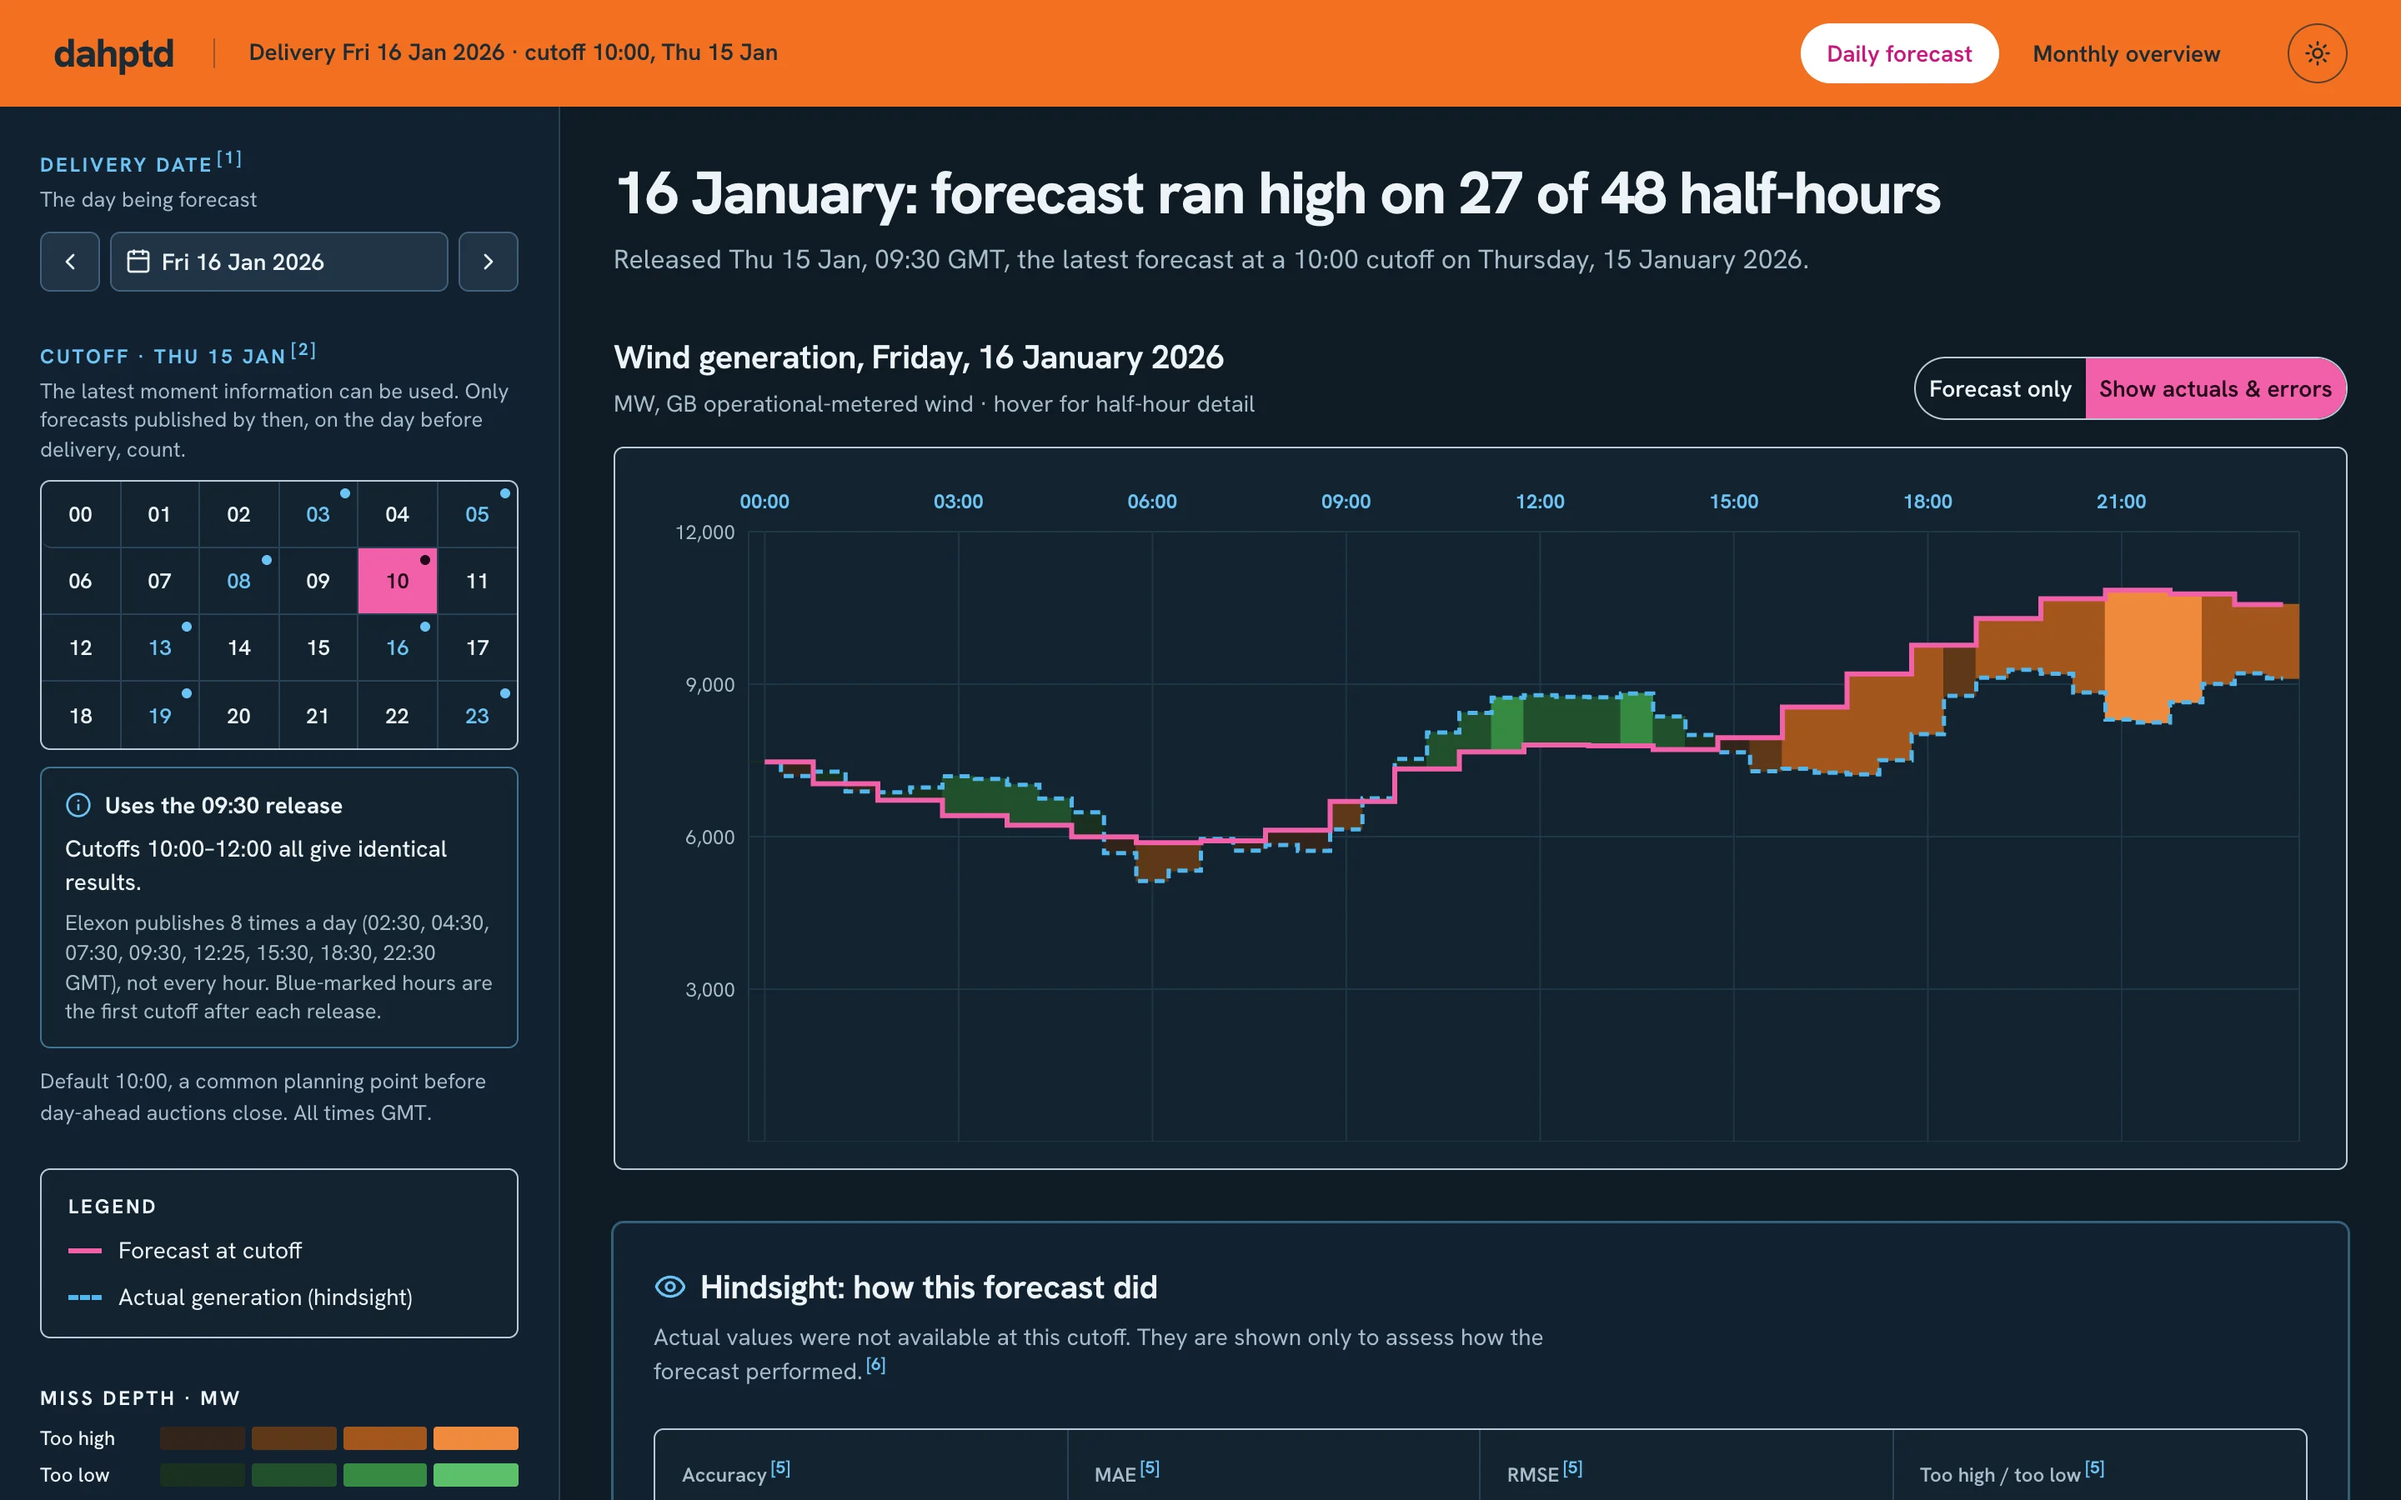
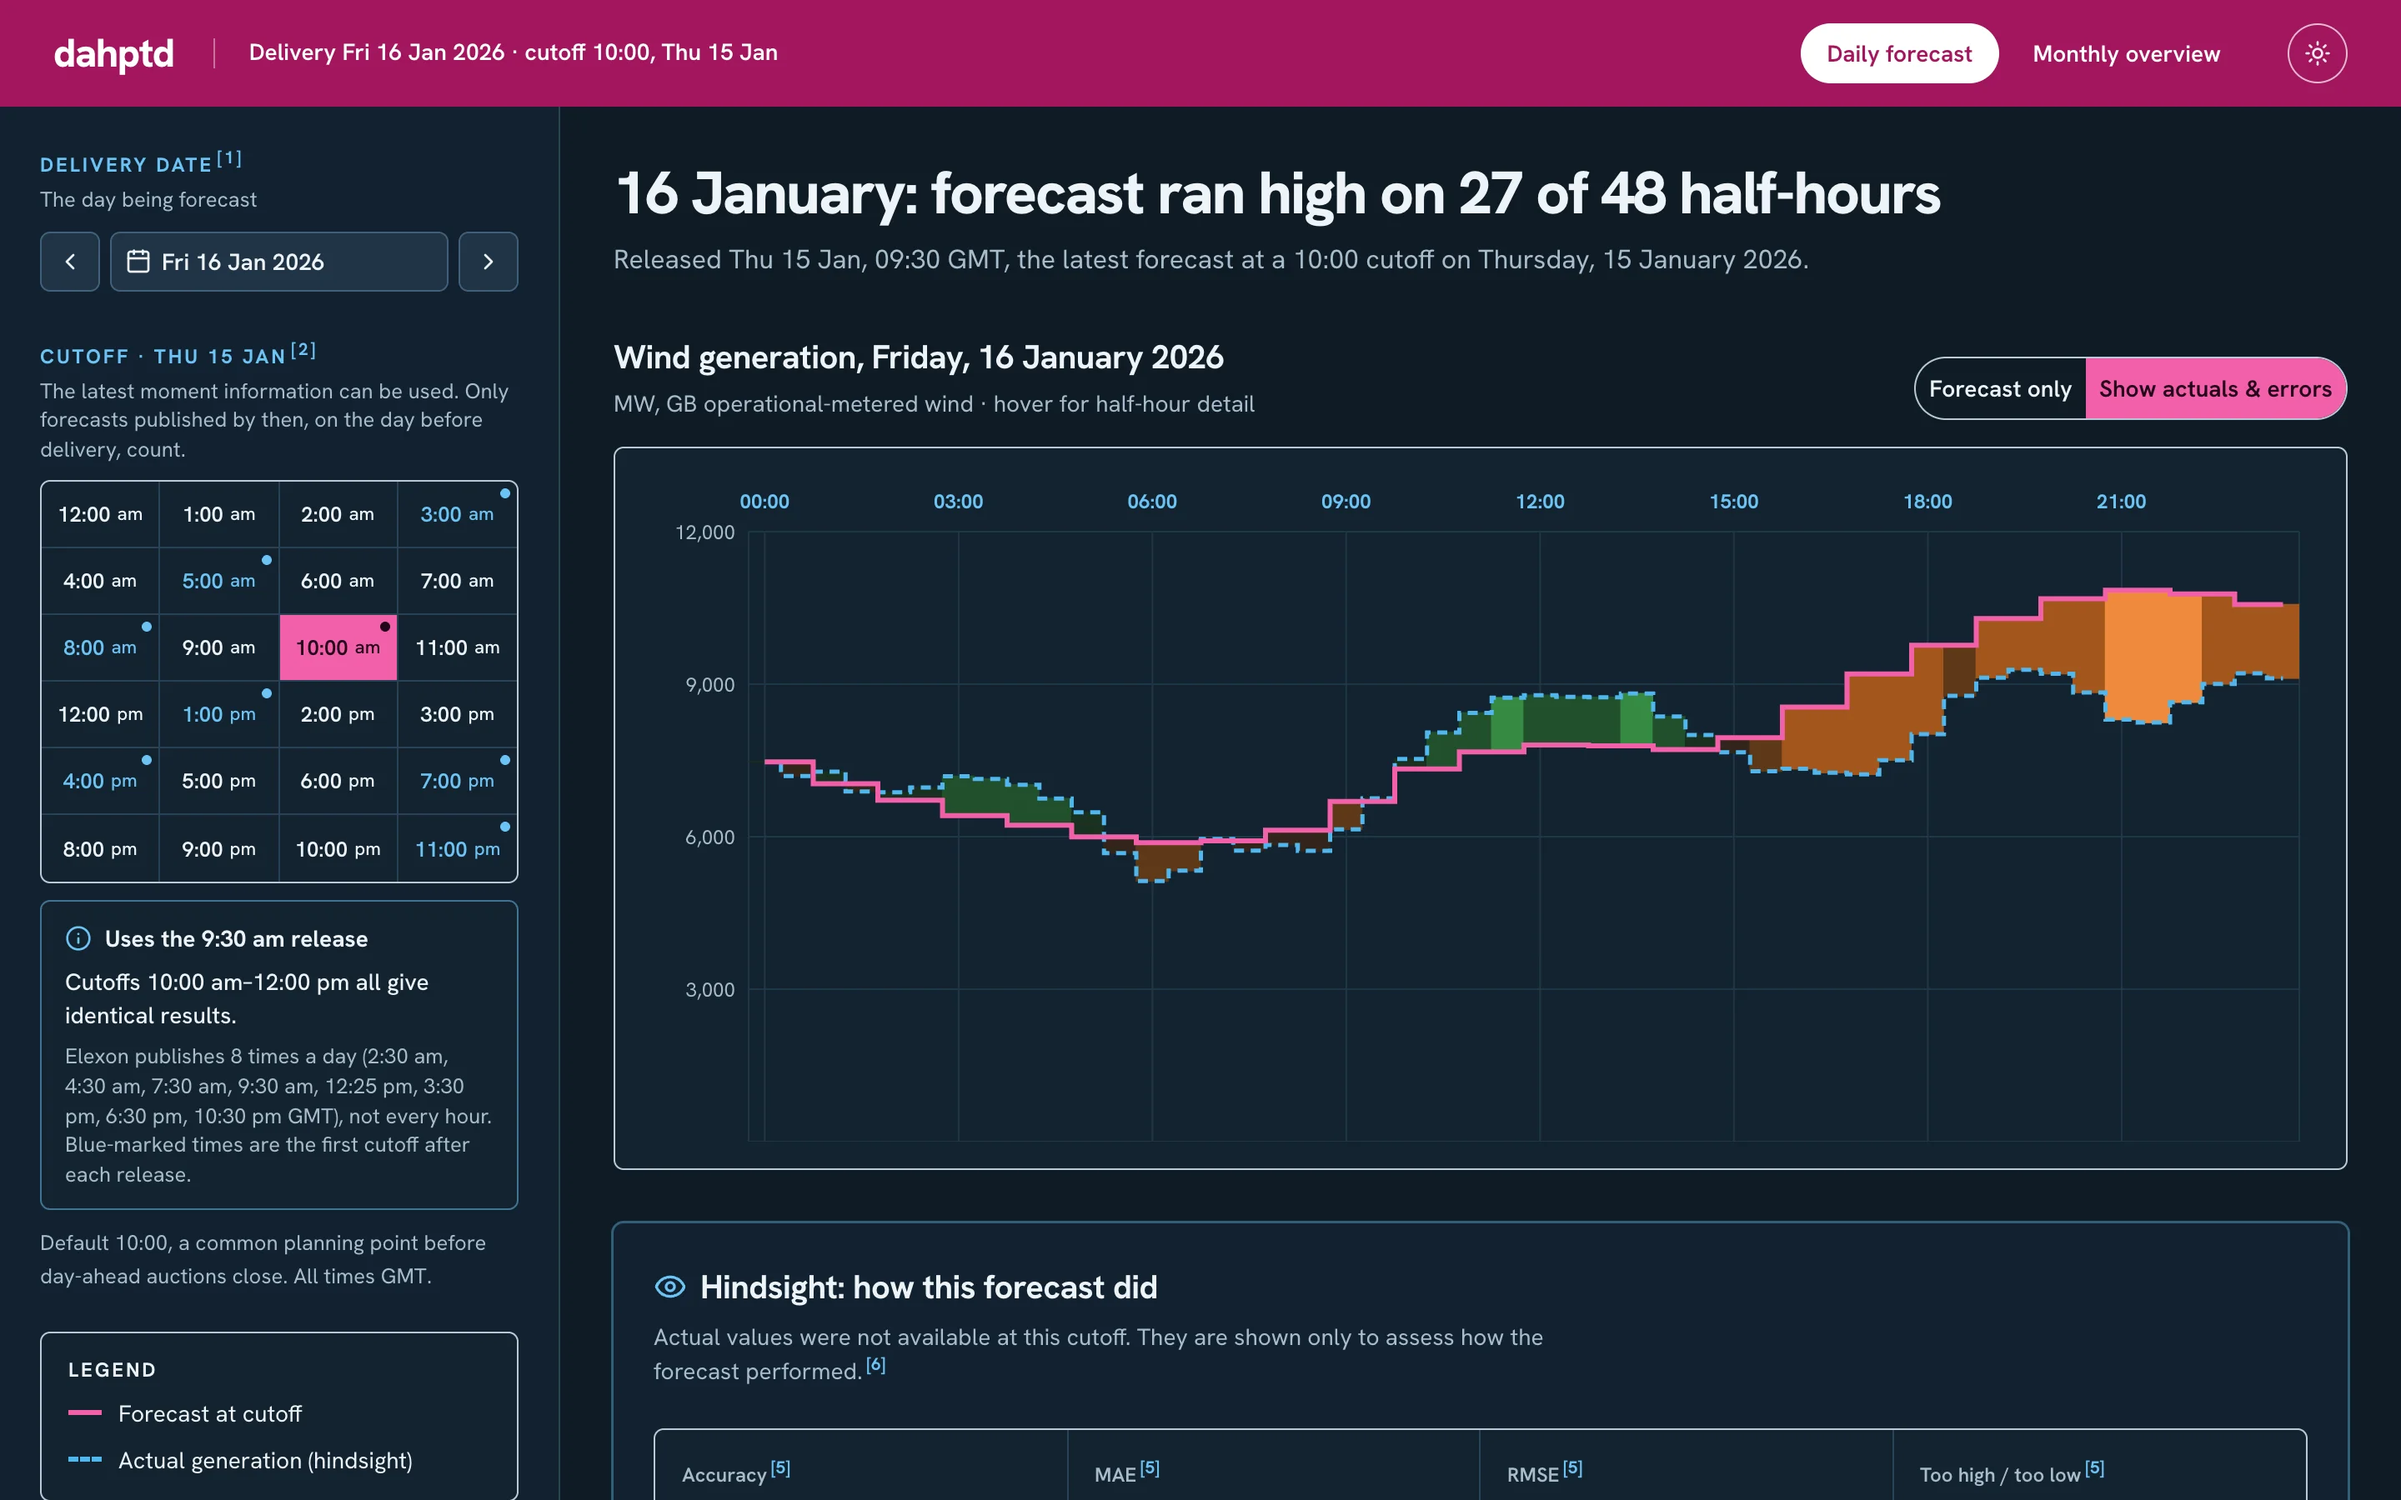
fix(frontend): use orange selections in light mode
Selection paints (cutoff grid, actuals toggle, calendar, focus rings,
text highlights) took their colour from --primary, which was magenta.
Light mode now takes the sheet's orange; dark mode keeps magenta, so
the theme still reads as the same sheet at night. The forecast line and
chart series stay magenta so their meaning does not change.

The presentation screenshots were taken before the 12-hour cutoff grid
and predate this change, so all nine are refreshed and the two callouts
that name a bar were moved to match.

Changed region(s): [[0.0, 0.0, 1.0, 0.0933], [0.0, 0.3111, 0.2188, 0.8711], [0.0, 0.9022, 0.2188, 0.9956]]

diff --git a/presentation/index.html b/presentation/index.html
@@ -18,7 +18,7 @@
   }
   * { box-sizing: border-box; margin: 0; }
   html, body { height: 100%; background: #10171d; color: var(--ink); font-family: var(--sans); overflow: hidden; font-variant-numeric: tabular-nums; }
-  ::selection { background: var(--magenta); color: #fff; }
+  ::selection { background: var(--band); color: var(--ink); }
 
   #stage { position: absolute; left: 50%; top: 50%; width: 1600px; height: 900px; transform-origin: center; }
   .slide { position: absolute; inset: 0; background: var(--paper); display: flex; flex-direction: column; overflow: hidden;
@@ -197,19 +197,19 @@
 <section class="slide sheet" data-part="Part 1 · Pilot walkthrough">
   <div class="top"><h2 class="rise"><span class="qn">1</span>Which forecast did your desk actually have?</h2><span class="part">2 · Daily view</span></div>
   <div class="work rise d1">
-    <div class="shot" data-cams='{"0":[720,450,1],"1":[230,400,1.75],"4":[720,450,1]}'>
+    <div class="shot" data-cams='{"0":[720,450,1],"1":[230,450,1.4],"4":[720,450,1]}'>
       <div class="cam" style="height:900px">
         <img src="shots/daily-forecast.webp" style="top:0" alt="Daily page with forecast only">
         <svg class="ov" width="1440" height="900" viewBox="0 0 1440 900">
-          <rect class="ring" data-step="1" pathLength="1" x="18" y="282" width="299" height="174" rx="8"/>
-          <rect class="ring blue" data-step="2" pathLength="1" x="113" y="326" width="56" height="46" rx="6"/>
-          <rect class="ring blue" data-step="2" pathLength="1" x="161" y="286" width="56" height="44" rx="6"/>
-          <rect class="ring" data-step="3" pathLength="1" x="18" y="454" width="299" height="180" rx="8"/>
+          <rect class="ring" data-step="1" pathLength="1" x="18" y="282" width="299" height="253" rx="8"/>
+          <rect class="ring blue" data-step="2" pathLength="1" x="20" y="367" width="78" height="44" rx="6"/>
+          <rect class="ring blue" data-step="2" pathLength="1" x="164" y="367" width="78" height="44" rx="6"/>
+          <rect class="ring" data-step="3" pathLength="1" x="18" y="536" width="299" height="196" rx="8"/>
           <rect class="ring" data-step="4" pathLength="1" x="122" y="17" width="350" height="30" rx="8"/>
           <path class="arrow" data-step="4" pathLength="1" d="M1000 278 C 1040 330, 1090 370, 1140 392"/>
           <g class="pin" data-step="1"><circle cx="340" cy="300" r="24"/><text x="340" y="301">1</text></g>
-          <g class="pin" data-step="2"><circle cx="200" cy="395" r="24"/><text x="200" y="396">2</text></g>
-          <g class="pin" data-step="3"><circle cx="340" cy="475" r="24"/><text x="340" y="476">3</text></g>
+          <g class="pin" data-step="2"><circle cx="340" cy="390" r="24"/><text x="340" y="391">2</text></g>
+          <g class="pin" data-step="3"><circle cx="340" cy="557" r="24"/><text x="340" y="558">3</text></g>
           <g class="pin" data-step="4"><circle cx="990" cy="252" r="24"/><text x="990" y="253">4</text></g>
         </svg>
       </div>
@@ -220,7 +220,7 @@
       <ol class="steps">
         <li data-step="1"><span>1</span><div><b>Pick your cutoff</b>Any hour on the day before delivery. The grid is your decision clock.</div></li>
         <li data-step="2"><span>2</span><div><b>See the release rhythm</b>Blue dots mark the first hour after each new Elexon release.</div></li>
-        <li data-step="3"><span>3</span><div><b>The exact run, named</b>"Uses the 09:30 release." Never a later one, never a blend.</div></li>
+        <li data-step="3"><span>3</span><div><b>The exact run, named</b>"Uses the 9:30 am release." Never a later one, never a blend.</div></li>
         <li data-step="4"><span>4</span><div><b>Read the forecast</b>Magenta is the forecast your desk had, hour by hour.</div></li>
       </ol>
     </div>
@@ -551,7 +551,7 @@
       <div class="lane"><b>Frontend</b><span class="ck"><svg width="22" height="22" viewBox="0 0 24 24" aria-hidden="true"><circle cx="12" cy="12" r="11" fill="#3f9a49"/><path d="M7 12.5l3.2 3.2L17 9" fill="none" stroke="#fff" stroke-width="2.6" stroke-linecap="round" stroke-linejoin="round"/></svg>eslint</span><span class="ck"><svg width="22" height="22" viewBox="0 0 24 24" aria-hidden="true"><circle cx="12" cy="12" r="11" fill="#3f9a49"/><path d="M7 12.5l3.2 3.2L17 9" fill="none" stroke="#fff" stroke-width="2.6" stroke-linecap="round" stroke-linejoin="round"/></svg>bun test · 15</span><span class="ck"><svg width="22" height="22" viewBox="0 0 24 24" aria-hidden="true"><circle cx="12" cy="12" r="11" fill="#3f9a49"/><path d="M7 12.5l3.2 3.2L17 9" fill="none" stroke="#fff" stroke-width="2.6" stroke-linecap="round" stroke-linejoin="round"/></svg>typecheck</span><span class="ck"><svg width="22" height="22" viewBox="0 0 24 24" aria-hidden="true"><circle cx="12" cy="12" r="11" fill="#3f9a49"/><path d="M7 12.5l3.2 3.2L17 9" fill="none" stroke="#fff" stroke-width="2.6" stroke-linecap="round" stroke-linejoin="round"/></svg>next build</span></div>
       <p style="margin-top:8px">Pinned <b>Bun 1.4.3</b> and <b>uv 0.13.4</b> with frozen lockfiles; Docker for both services; checksummed data. Data loads once per instance and views are memoised, so a 10 s function limit is plenty.</p>
     </div>
-    <figure style="display:grid; gap:10px"><div class="shot" style="aspect-ratio:16/10"><img src="shots/daily-dark.webp" alt="Daily page in dark mode" style="width:100%; height:100%; object-fit:cover; display:block"></div><figcaption style="font-size:18px; color:var(--muted)">Light and dark from one token set; the switch remembers your choice.</figcaption></figure>
+    <figure style="display:grid; gap:10px"><div class="shot" style="aspect-ratio:16/10"><img src="shots/daily-dark.webp" alt="Updated daily page in dark mode, with magenta header and selected cutoff" style="width:100%; height:100%; object-fit:cover; display:block"></div><figcaption style="font-size:18px; color:var(--muted)">Orange controls in light mode, magenta in dark; the switch remembers your choice.</figcaption></figure>
   </div>
   <div class="reveal" data-step="1" style="margin-top:34px; border-top:2px solid var(--ink); padding-top:22px">
     <p><b>Known trade-offs → next steps:</b> snapshot isn't live (scheduled ingestion + Blob storage) · WINDFOR interval semantics need publisher confirmation · per-instance cache only · AI assistants helped build this, with every rule covered by tests.</p>

diff --git a/frontend/app/monthly/monthly-charts.tsx b/frontend/app/monthly/monthly-charts.tsx
@@ -336,7 +336,7 @@ export function CutoffChart({
         />
         <ReferenceLine
           x={selected}
-          stroke="var(--color-forecast)"
+          stroke="var(--ring)"
           strokeDasharray="3 4"
         />
         <ChartTooltip
@@ -389,13 +389,13 @@ export function CutoffChart({
                 cx={props.cx}
                 cy={props.cy}
                 r={active ? 6 : 3}
-                fill={active ? "var(--color-forecast)" : "var(--card)"}
-                stroke="var(--color-forecast)"
+                fill={active ? "var(--primary)" : "var(--card)"}
+                stroke={active ? "var(--ring)" : "var(--color-forecast)"}
                 strokeWidth={2}
               />
             );
           }}
-          activeDot={{ r: 6 }}
+          activeDot={{ r: 6, fill: "var(--primary)", stroke: "var(--ring)" }}
         />
       </LineChart>
     </ChartContainer>

diff --git a/frontend/app/globals.css b/frontend/app/globals.css
@@ -60,7 +60,7 @@
 }
 
 :root {
-  /* Ordnance Survey sheet: white paper, ink, survey blue, OS magenta. */
+  /* Explorer sheet: white paper, survey blue, orange controls; magenta forecast. */
   --radius: 0.375rem;
   --background: #ffffff;
   --foreground: #1d2a33;
@@ -68,18 +68,18 @@
   --card-foreground: #1d2a33;
   --popover: #ffffff;
   --popover-foreground: #1d2a33;
-  --primary: #c8177b;
-  --primary-foreground: #ffffff;
+  --primary: #f37021;
+  --primary-foreground: #1d2a33;
   --secondary: #eaf4fa;
   --secondary-foreground: #1d2a33;
   --muted: #eaf4fa;
   --muted-foreground: #4a5d6b;
-  --accent: #fbe6f1;
+  --accent: #fff0e5;
   --accent-foreground: #1d2a33;
   --destructive: #c62828;
   --border: #c5dcea;
   --input: #93bcd4;
-  --ring: #c8177b;
+  --ring: #a8490a;
 
   /* Sheet furniture. */
   --band: #f37021;

diff --git a/frontend/app/site-header.tsx b/frontend/app/site-header.tsx
@@ -43,7 +43,7 @@ export function SiteHeader({
               key={item.id}
               href={item.href}
               aria-current={active === item.id ? "page" : undefined}
-              className={`rounded-full px-4 py-2 transition-colors focus-visible:outline-band-foreground ${active === item.id ? "bg-white text-[#c8177b] dark:text-band" : "hover:bg-band-foreground/10"}`}
+              className={`rounded-full px-4 py-2 transition-colors focus-visible:outline-band-foreground ${active === item.id ? "bg-white text-ring dark:text-band" : "hover:bg-band-foreground/10"}`}
             >
               {item.label}
             </Link>

diff --git a/frontend/app/sheet.tsx b/frontend/app/sheet.tsx
@@ -144,7 +144,7 @@ export function CutoffGrid({
             )}
           >
             {clock}
-            <span className="text-[0.7rem] font-medium opacity-75">{half}</span>
+            <span className="text-[0.7rem] font-medium">{half}</span>
             {release && (
               <span
                 aria-hidden="true"
